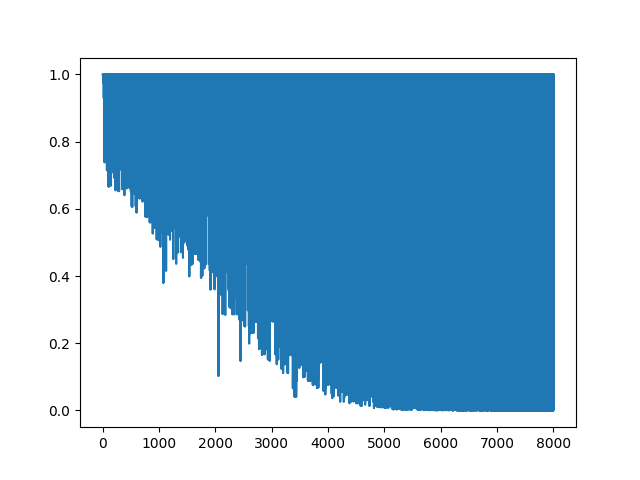
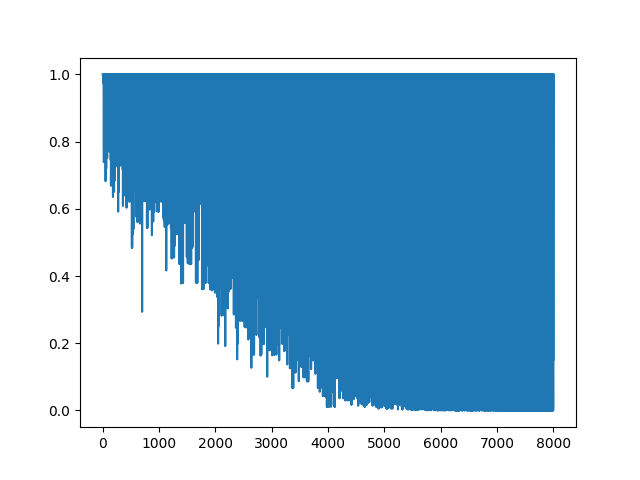
Started to implement verification case at 'verfication_test.py'. Fixed some potential errors and implemented function 'generate_log_file'.

Changed region(s): [[0.1562, 0.3125, 0.6562, 0.875]]

diff --git a/verification_test.py b/verification_test.py
@@ -1,0 +1,96 @@
+from main import*
+
+edge_list = [
+    (0,1),
+    (1,2),
+    (2,3),
+    (7,6),
+    (6,5),
+    (5,4),
+    (8,9),
+    (9,10),
+    (10,11),
+    (12,13),
+    (13,14),
+    (14,15),
+    (0,8),
+    (8,12),
+    (7,12),
+    (7,0),
+    (1,9),
+    (9,13),
+    (6,13),
+    (6,1),
+    (2,10),
+    (10,14),
+    (5,14),
+    (5,2),
+    (3,11),
+    (11,15),
+    (4,15),
+    (4,3)
+]
+print(len(edge_list))
+
+G = nx.Graph()
+G.add_edges_from(edge_list)
+print(nx.is_planar(G))
+
+fixed1_pop = [2673,2071,2043,869,789,756,539,260]
+fixed1_party1 = [1008,737,705,645,425,264,126,90]
+
+fixed2_pop = [1839,1732,1671,1406,1050,924,841,537]
+fixed2_party2 = [974,799,552,495,423,289,257,211]
+
+#fixed1_party2 = [fixed1_pop[x]-fixed1_party1[x] for x in range(len(fixed1_pop))]
+fixed1_party2 = [x-y for x,y in zip(fixed1_pop,fixed1_party1)]
+fixed2_party1 = [x-y for x,y in zip(fixed2_pop,fixed2_party2)]
+
+print('fixed1_pop sum: ', sum(fixed1_pop))
+print('fixed2_pop sum: ', sum(fixed2_pop))
+print('fixed1_party1: ', sum(fixed1_party1))
+print('fixed1_party2: ', sum(fixed1_party2))
+print('fixed2_party2: ', sum(fixed2_party2))
+print('fixed2_party1: ', sum(fixed2_party1))
+Dict_format = dict(
+    {'name': 'default', 'id': 0, 'pop': 0, 'total_votes': 0, 'party_1': 0, 'party_2': 0, 'color': 'white'})
+
+key_list = [x for x in range(16)]
+value_list = [dict(
+    {Dict_Trait.name: str(i), Dict_Trait.id: i, Dict_Trait.pop: (fixed1_pop[i]*2 if i < 8 else 2*fixed2_pop[i-8]),
+     Dict_Trait.total_votes: (fixed1_pop[i] if i < 8 else fixed2_pop[i-8]), Dict_Trait.party_1: (fixed1_party1[i] if i < 8 else fixed2_party1[i-8]),
+     Dict_Trait.party_2: (fixed1_party2[i] if i < 8 else fixed2_party2[i-8]),
+     Dict_Trait.party_3: 0, Dict_Trait.color: ('blue' if i < 8 else 'red')})
+    for i in range(16)
+    ]
+verification_dict ={k: v for k,v in zip(key_list,value_list)}
+print(len(verification_dict))
+#color_map = get_color_map_from_dict(verification_dict)
+print(verification_dict)
+nx.set_node_attributes(G, verification_dict)
+init_part = alt_gen_init_part(G,2)
+
+
+result_list, log_list = graph_simulated_annealing(G, init_part, 10, False)
+compare_before_after_graph_anneal(G, init_part, result_list)
+score_history_list = log_list[0]
+probability_history_list = log_list[1]
+min_score_list = log_list[2]
+
+compare_before_after_graph_anneal(G, init_part, min_score_list[1])
+
+print(init_part)
+
+score_fig = plt.figure(1)
+plt.plot(score_history_list)
+plt.savefig('verification_score_history.png')
+plt.close(score_fig)
+prob_fig = plt.figure(2)
+plt.plot(probability_history_list)
+plt.savefig('verification_prob_history.png')
+plt.close(prob_fig)
+print(score_history_list)
+
+nx.draw_planar(G,with_labels=True)
+plt.savefig('verification_graph.png')
+plt.close()

diff --git a/main.py b/main.py
@@ -8,6 +8,7 @@ import copy
 import enum
 import statistics
 import math
+import datetime
 
 '''
 #General Algorithm
@@ -621,6 +622,8 @@ def graph_simulated_annealing(G: nx.Graph(), partition_node_list, iter_per_epoch
     probability_history_list.append(probability)
     current_temp = start_temp
     min_score = score
+    min_part_config = result_list
+    log_list = [score_history_list, probability_history_list, [min_score, min_part_config]]
     for time in range(epoch_num):
         current_temp = current_temp * alpha #start_temp/((time**alpha) + 1)
         for epoch_iter in range(iter_per_epoch):
@@ -663,7 +666,7 @@ def compare_before_after_graph_anneal(G: nx.Graph(), init_part_list: list, annea
     element_list.insert(0,header_list[0])
     init_graph_list.insert(0,header_list[1])
     anneal_graph_list.insert(0,header_list[2])
-    element_list.insert(13,'stdev/mean')
+    element_list.insert(14,'stdev/mean')
 
     #print('%-20s %s' % (header_list[0], header_list[1], header_list[2]))
     #print(f"{'Partitions' : <20}{'Init Part' : ^20}{'Anneal Part' : ^20}")
@@ -678,6 +681,22 @@ def compare_before_after_graph_anneal(G: nx.Graph(), init_part_list: list, annea
 
     #(graph_pop, graph_vote, graph_party_1_vote, graph_party_2_vote, party_1_district_won, party_2_district_won,
     # party_3_district_won, pop_avg, pop_variance, pop_stdev, party_1_wasted_vote, party_2_wasted_vote, graph_efficiency_gap,tied_districts)
+
+def generate_log_file(log_file_name, init_part, result_list, score_history_list, min_score_list):
+    sejong_test_file = open(log_file_name, 'a')
+    sejong_test_file.write('====================\n')
+    sejong_test_file.writelines(str(datetime.datetime.now()) + str('\n'))
+    sejong_test_file.write('Initial Partition: \n')
+    sejong_test_file.writelines([str(x) for x in init_part])
+    sejong_test_file.writelines(['\nInitial Partition Score: ', str(score_history_list[0])])
+    sejong_test_file.write('\nFinal Anneal Partition: ')
+    sejong_test_file.writelines([str(x) for x in result_list])
+    sejong_test_file.writelines(['\nFinal Anneal Score: ', str(score_history_list[-1])])
+    sejong_test_file.write('\nMin Anneal Partition: ')
+    sejong_test_file.writelines([str(x) for x in min_score_list[1]])
+    sejong_test_file.writelines(['\nMin Anneal Score: ', str(min_score_list[0])])
+    sejong_test_file.write('\n===================\n')
+    sejong_test_file.close()
 
 Dict_format = dict(
     {'name': 'default', 'id': 0, 'pop': 0, 'total_votes': 0, 'party_1': 0, 'party_2': 0, 'color': 'white'})

diff --git a/sejong_test.py b/sejong_test.py
@@ -37,13 +37,13 @@ for line in nx.generate_adjlist(new_Sejong_G):
 print(list(nx.selfloop_edges(new_Sejong_G)))
 new_Sejong_G.remove_edges_from(nx.selfloop_edges(new_Sejong_G))
 nx.write_adjlist(new_Sejong_G, "merged_sejong_auto.adjlist")
-nx.draw(new_Sejong_G)
-plt.show()
+#nx.draw(new_Sejong_G)  //causes errors in WSL2 environment
+#plt.show()
 
 p_layout = nx.planar_layout(new_Sejong_G)
 
-nx.draw(new_Sejong_G, p_layout)
-plt.show()
+#nx.draw(new_Sejong_G, p_layout)
+#plt.show()
 
 for line in nx.generate_adjlist(new_Sejong_G):
     print(line)
@@ -242,9 +242,11 @@ min_score_list = log_list[2]
 score_fig = plt.figure(1)
 plt.plot(score_history_list)
 plt.savefig('score_history.png')
+plt.close(score_fig)
 prob_fig = plt.figure(2)
 plt.plot(probability_history_list)
 plt.savefig('prob_history.png')
+plt.close(prob_fig)
 
 #print(score_history_list)
 #print(probability_history_list)

diff --git a/sejong_test_run_script.py b/sejong_test_run_script.py
@@ -1,0 +1,2 @@
+for i in range(100):
+    exec(open('./sejong_test.py').read())
